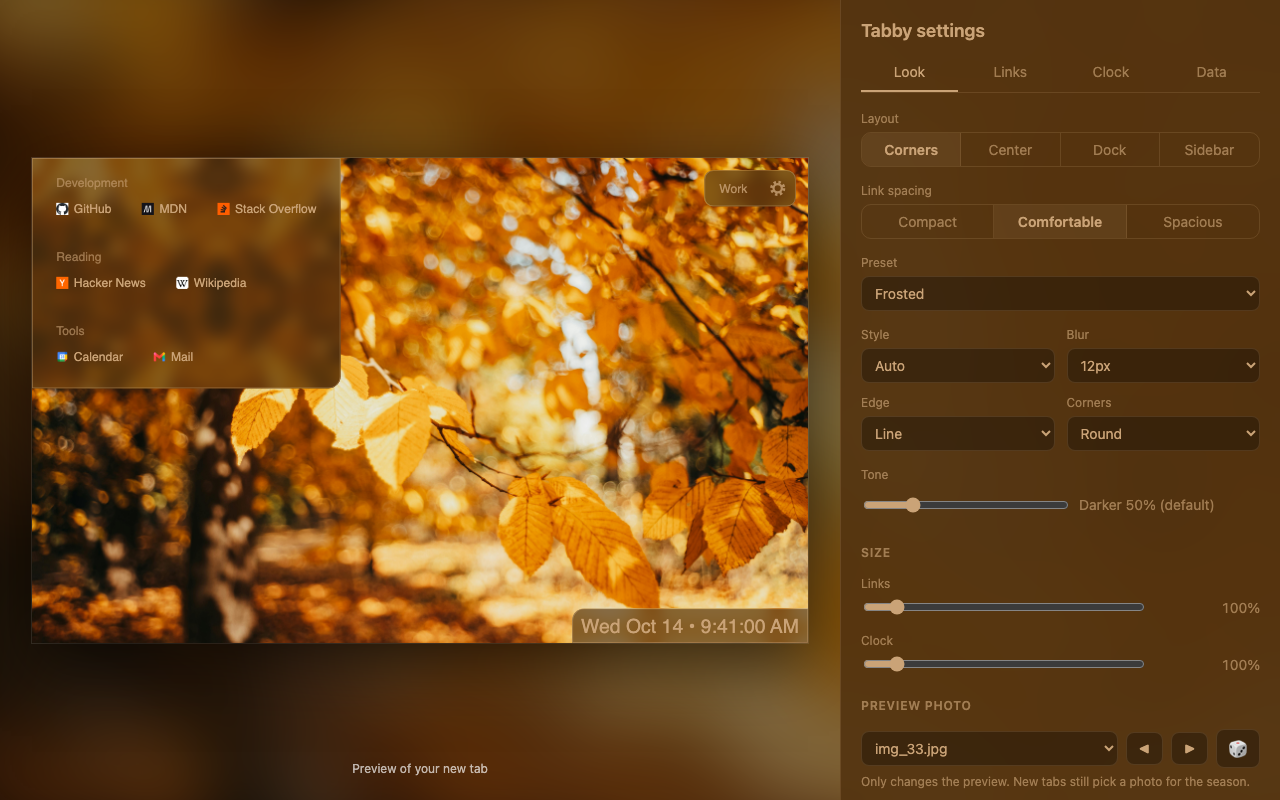
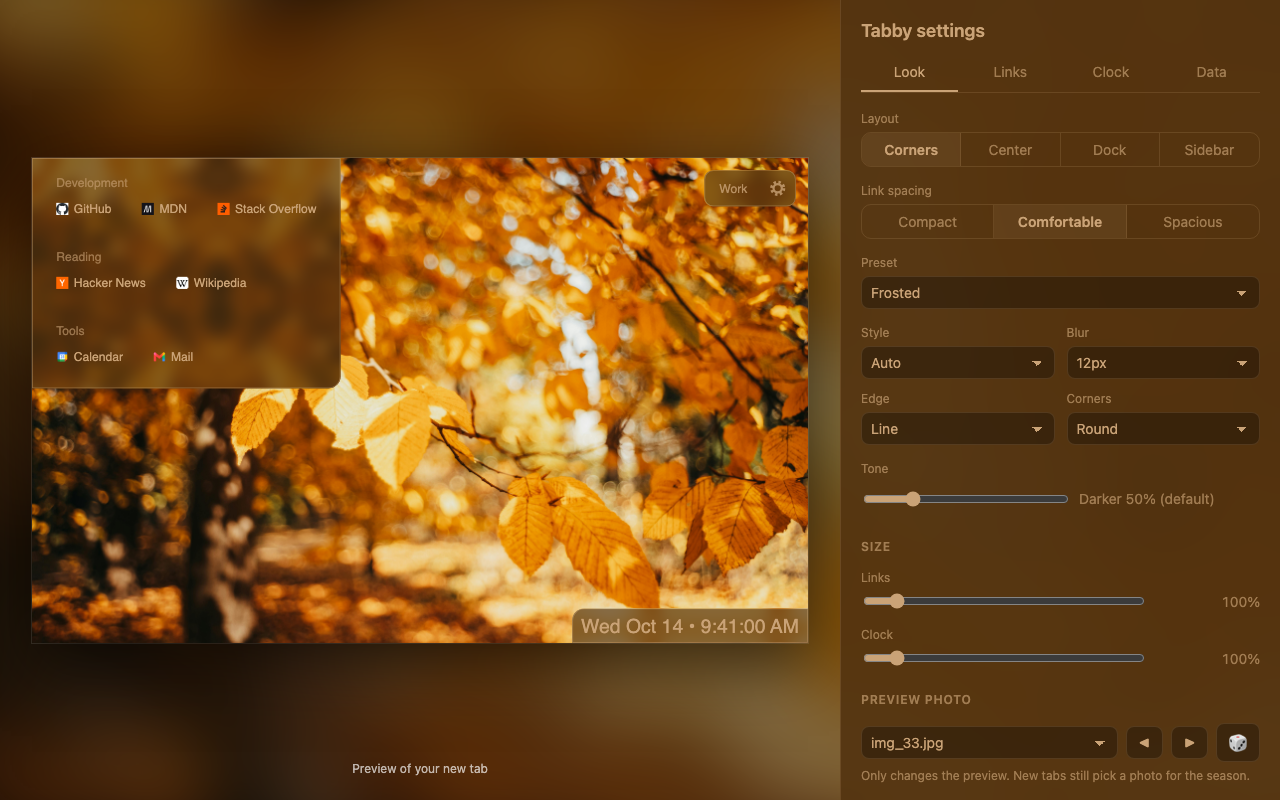
Give the settings dropdowns a padded caret
The native select caret sat flush against the right edge of each field.
The selects now draw their own caret 12px in from the edge, using the
look's ink color so it matches light and dark drawers.

diff --git a/options.html b/options.html
@@ -207,6 +207,21 @@
         font: inherit;
       }
 
+      /* Own caret instead of the native one, which sits flush against the
+         right edge; drawn with gradients so it follows the look's ink color */
+      select {
+        appearance: none;
+        padding-right: 30px;
+        background-image:
+          linear-gradient(45deg, transparent 50%, var(--ink) 50%),
+          linear-gradient(135deg, var(--ink) 50%, transparent 50%);
+        background-position:
+          calc(100% - 17px) 55%,
+          calc(100% - 12px) 55%;
+        background-size: 5px 5px;
+        background-repeat: no-repeat;
+      }
+
       select option,
       select optgroup {
         background: #222;
